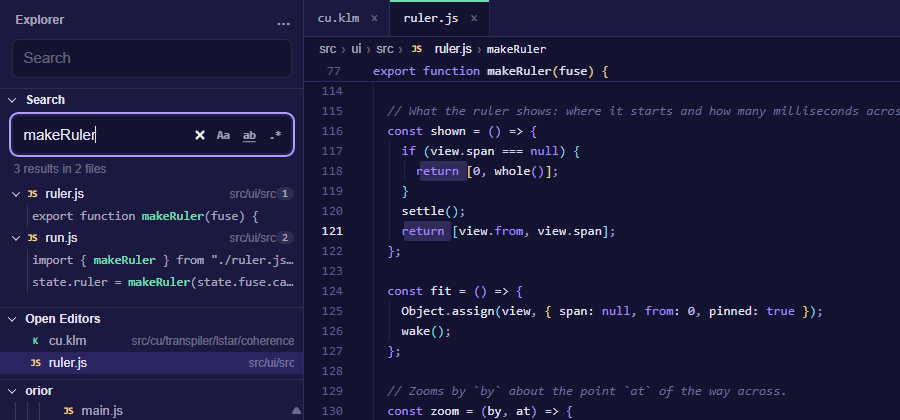
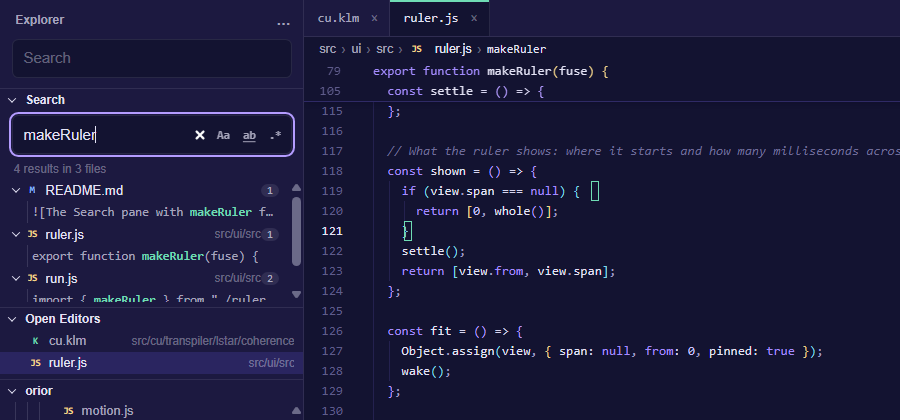
Refresh the README screenshots and add ones of Plugins, Toolchains and clangd.

diff --git a/README.md b/README.md
@@ -91,7 +91,7 @@ The panes at the sides collapse toward their edge a moment after the pointer lea
 2. Choose the job. The arrow keys move through the list, and a job's description is the opening comment of its own file.
 3. Set its values and press F5 to start it. Shift+F5 stops it.
 
-![A test job a minute and more into its run, its output above the fuse and the time ruler, the pointer reading 34.55 s off the ruler](src/ui/docs/img/run.png)
+![A test job a minute and more into its run, its output above the fuse and the time ruler, the pointer reading 34.60 s off the ruler](src/ui/docs/img/run.png)
 
 The output streams as it comes. The fuse along its foot burns on the time ruler under it, its head at the run's latest moment, and it flashes when the run ends well and sputters dark when it fails or is stopped. The ruler marks where each step started and where the output came, red where it went to stderr. The wheel over either one, or + and - with the ruler holding the keys, zooms the time down to a few milliseconds across; a drag or Left and Right moves it, and 0 or a double click fits the whole run again. A page a viewer writes opens in a window of its own.
 
@@ -111,7 +111,11 @@ Open a file from the tree, from Go to File (Ctrl+P), or from the command line wi
 | run the file | Ctrl+F5, or Run, Run File: it is saved, then runs in the terminal with its language's toolchain. Python, R, Ruby, JavaScript, the shells and PowerShell run as scripts; MATLAB runs with -batch, or in Octave where MATLAB is not installed; Lean with lean --run, TeX with latexmk, netlists with ngspice or LTspice, VHDL with GHDL; C, C++, CUDA and Rust are compiled to build/run/ and run. |
 | fold | the arrow in the gutter; Ctrl+K Ctrl+0 folds everything and Ctrl+K Ctrl+J unfolds it |
 
-In C, C++ and CUDA the editor asks clangd, from File, Toolchains, what the code means. A wavy line marks each error in red and each warning in yellow, and a hover over it says what is wrong; the status bar counts them, and F8 and Shift+F8 step to the next and the previous. A hover over a name shows its type and its declaration, Ctrl+Space completes from what the code declares, and F12 or a click with Ctrl held goes to a definition. clangd reads the flags each file is compiled with from `build/compile_commands.json`, which `python -I utils/maint/engine/clangd_database.py` writes; run it once after a clone and again after a file is added or moved.
+In C, C++ and CUDA the editor asks clangd, from File, Toolchains, what the code means. A wavy line marks each error in red and each warning in yellow, and a hover over it says what is wrong; the status bar counts them, and F8 and Shift+F8 step to the next and the previous. A hover over a name shows its type and its declaration, Ctrl+Space completes from what the code declares, and F12 or a click with Ctrl held goes to a definition.
+
+![A C file with factor not declared: a red wave under it, and the hover saying what clangd found](src/ui/docs/img/clangd.png)
+
+clangd reads the flags each file is compiled with from `build/compile_commands.json`, which `python -I utils/maint/engine/clangd_database.py` writes; run it once after a clone and again after a file is added or moved.
 
 View turns on and off Sticky Scroll, which holds the opening line of each block the top of the screen is inside; Breadcrumbs, the folders, the file and the symbols the cursor is inside, each a click from where it points; and Bracket Pair Colorization, each pair of brackets colored by its depth.
 
@@ -137,7 +141,7 @@ Ctrl+S saves the file shown and File, Save All saves every one. File, Auto Save 
 
 Ctrl+F finds in the file and Ctrl+H replaces, with F3 and Shift+F3 for the next and the previous match. Ctrl+Shift+F opens Find in Files, the explorer's Search pane: case, whole words and regular expressions each turn on beside the field, each file's row holds its count, and a line's row opens the file at the match. `orior edit search <text>` searches the tree from the command line.
 
-![The Search pane with makeRuler found three times in two files, beside the file it opened](src/ui/docs/img/find_in_files.png)
+![The Search pane with makeRuler found four times in three files, beside the file it opened](src/ui/docs/img/find_in_files.png)
 
 ### Version control
 
@@ -165,11 +169,15 @@ orior's own folder is `%APPDATA%\orior` on Windows and `~/.config/orior` elsewhe
 
 Each language the editor colors is a plugin. orior comes with plugins for MATLAB, Octave, R, Python, C, C++ and CUDA, Rust, JavaScript, Lean, VHDL, SHARC assembly, LTspice, ngspice, TeX, Markdown, HTML and XML, CSS, JSON, TOML, YAML, the shells and plain text. A plugin is a folder with a `plugin.json` that names the extensions it opens, its comments, brackets and quotes, a grammar, and the words and snippets it completes. File, Plugins lists every plugin with what it opens, turns each on or off, and shows what is wrong with one that does not read. Your own plugins go in `plugins` in orior's own folder; Open Plugins Folder opens it, and Reload reads them again. One of yours with the id of one that comes with orior is used in its place. Where two plugins name one extension, as MATLAB and Octave both name `.m`, yours comes first, then the first by id; the list strikes out an extension another plugin opens, and turning that plugin off hands it on.
 
+![File, Plugins: each plugin with its extensions, Octave's .m struck out where MATLAB opens it](src/ui/docs/img/plugins.png)
+
 File, New Language Plugin asks for a name, the extensions, the comments, the keywords, the types, the constants and the quotes, or starts from a plugin there already. A sample on the right shows how the plugin colors code as you type, over the `plugin.json` it will write. Create writes it to your plugins folder, with a sample file beside it, and the editor opens those extensions in it at once.
 
 ### Toolchains
 
 orior installs no compiler or language of its own. File, Toolchains lists each one the tree and the app use, from Git, Bash and Python through CUDA, MSVC, GCC, LLVM, Rust, Node.js, Ruby, R, MATLAB, Octave, Lean, TeX, ngspice, LTspice, GHDL and CrossCore Embedded Studio to the formatters Black, clang-format and Prettier, with what each is for, where orior found it and the version it says.
+
+![File, Toolchains: Git, Bash, Python, PowerShell and the GitHub CLI, then the C, C++ and CUDA compilers, each found on PATH with its version and its folder](src/ui/docs/img/toolchains.png)
 
 | shown | means | what you can do |
 | --- | --- | --- |
